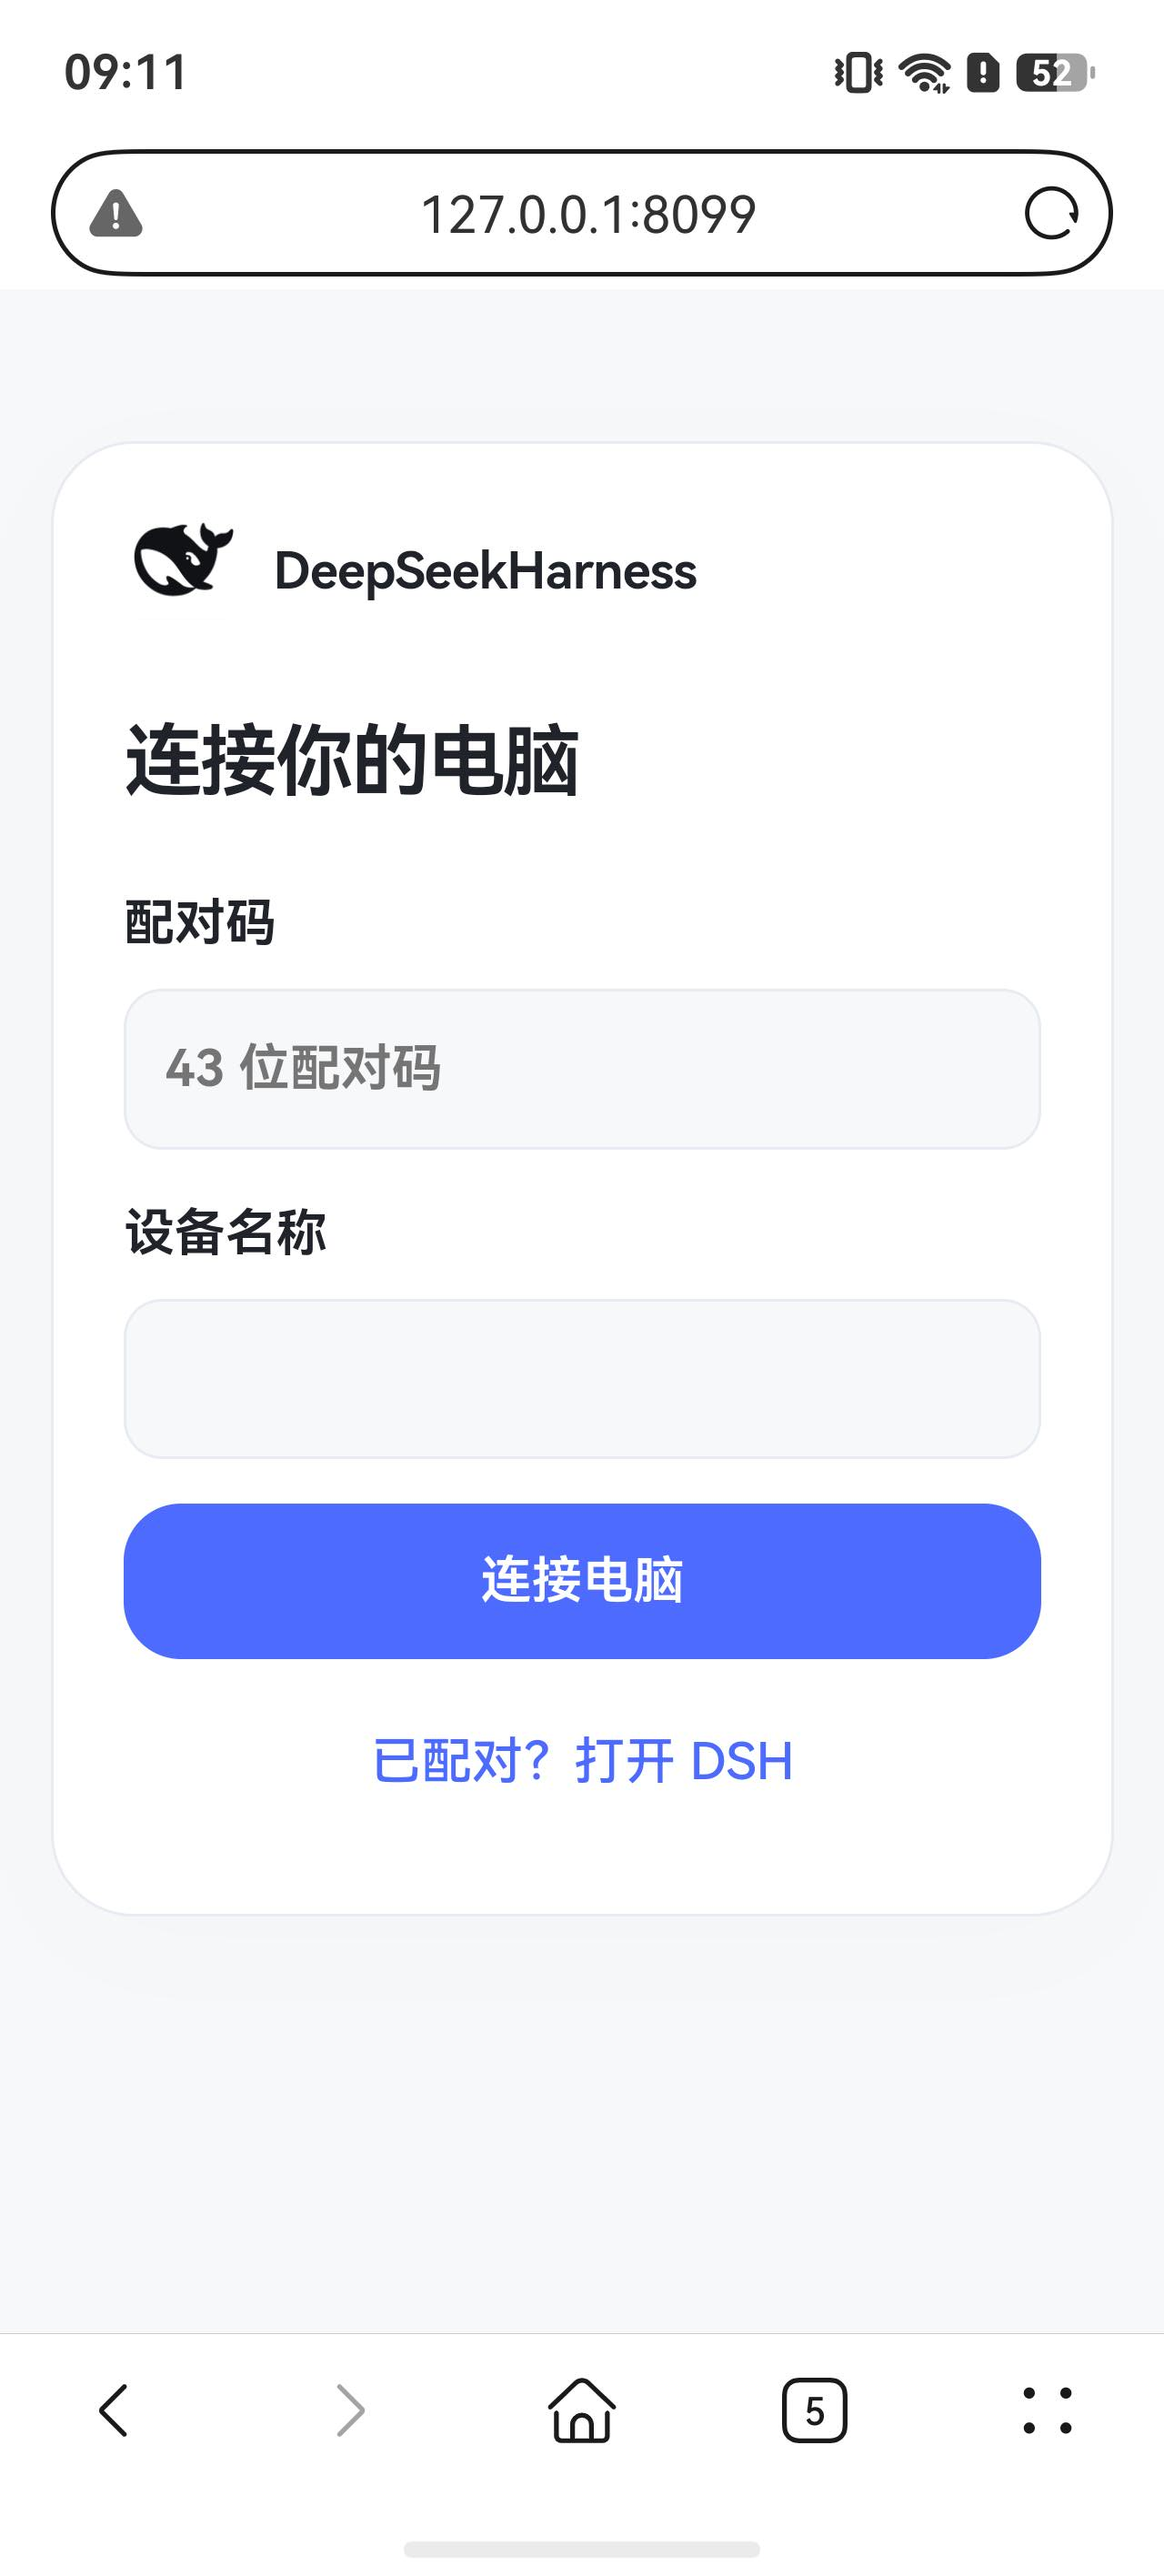
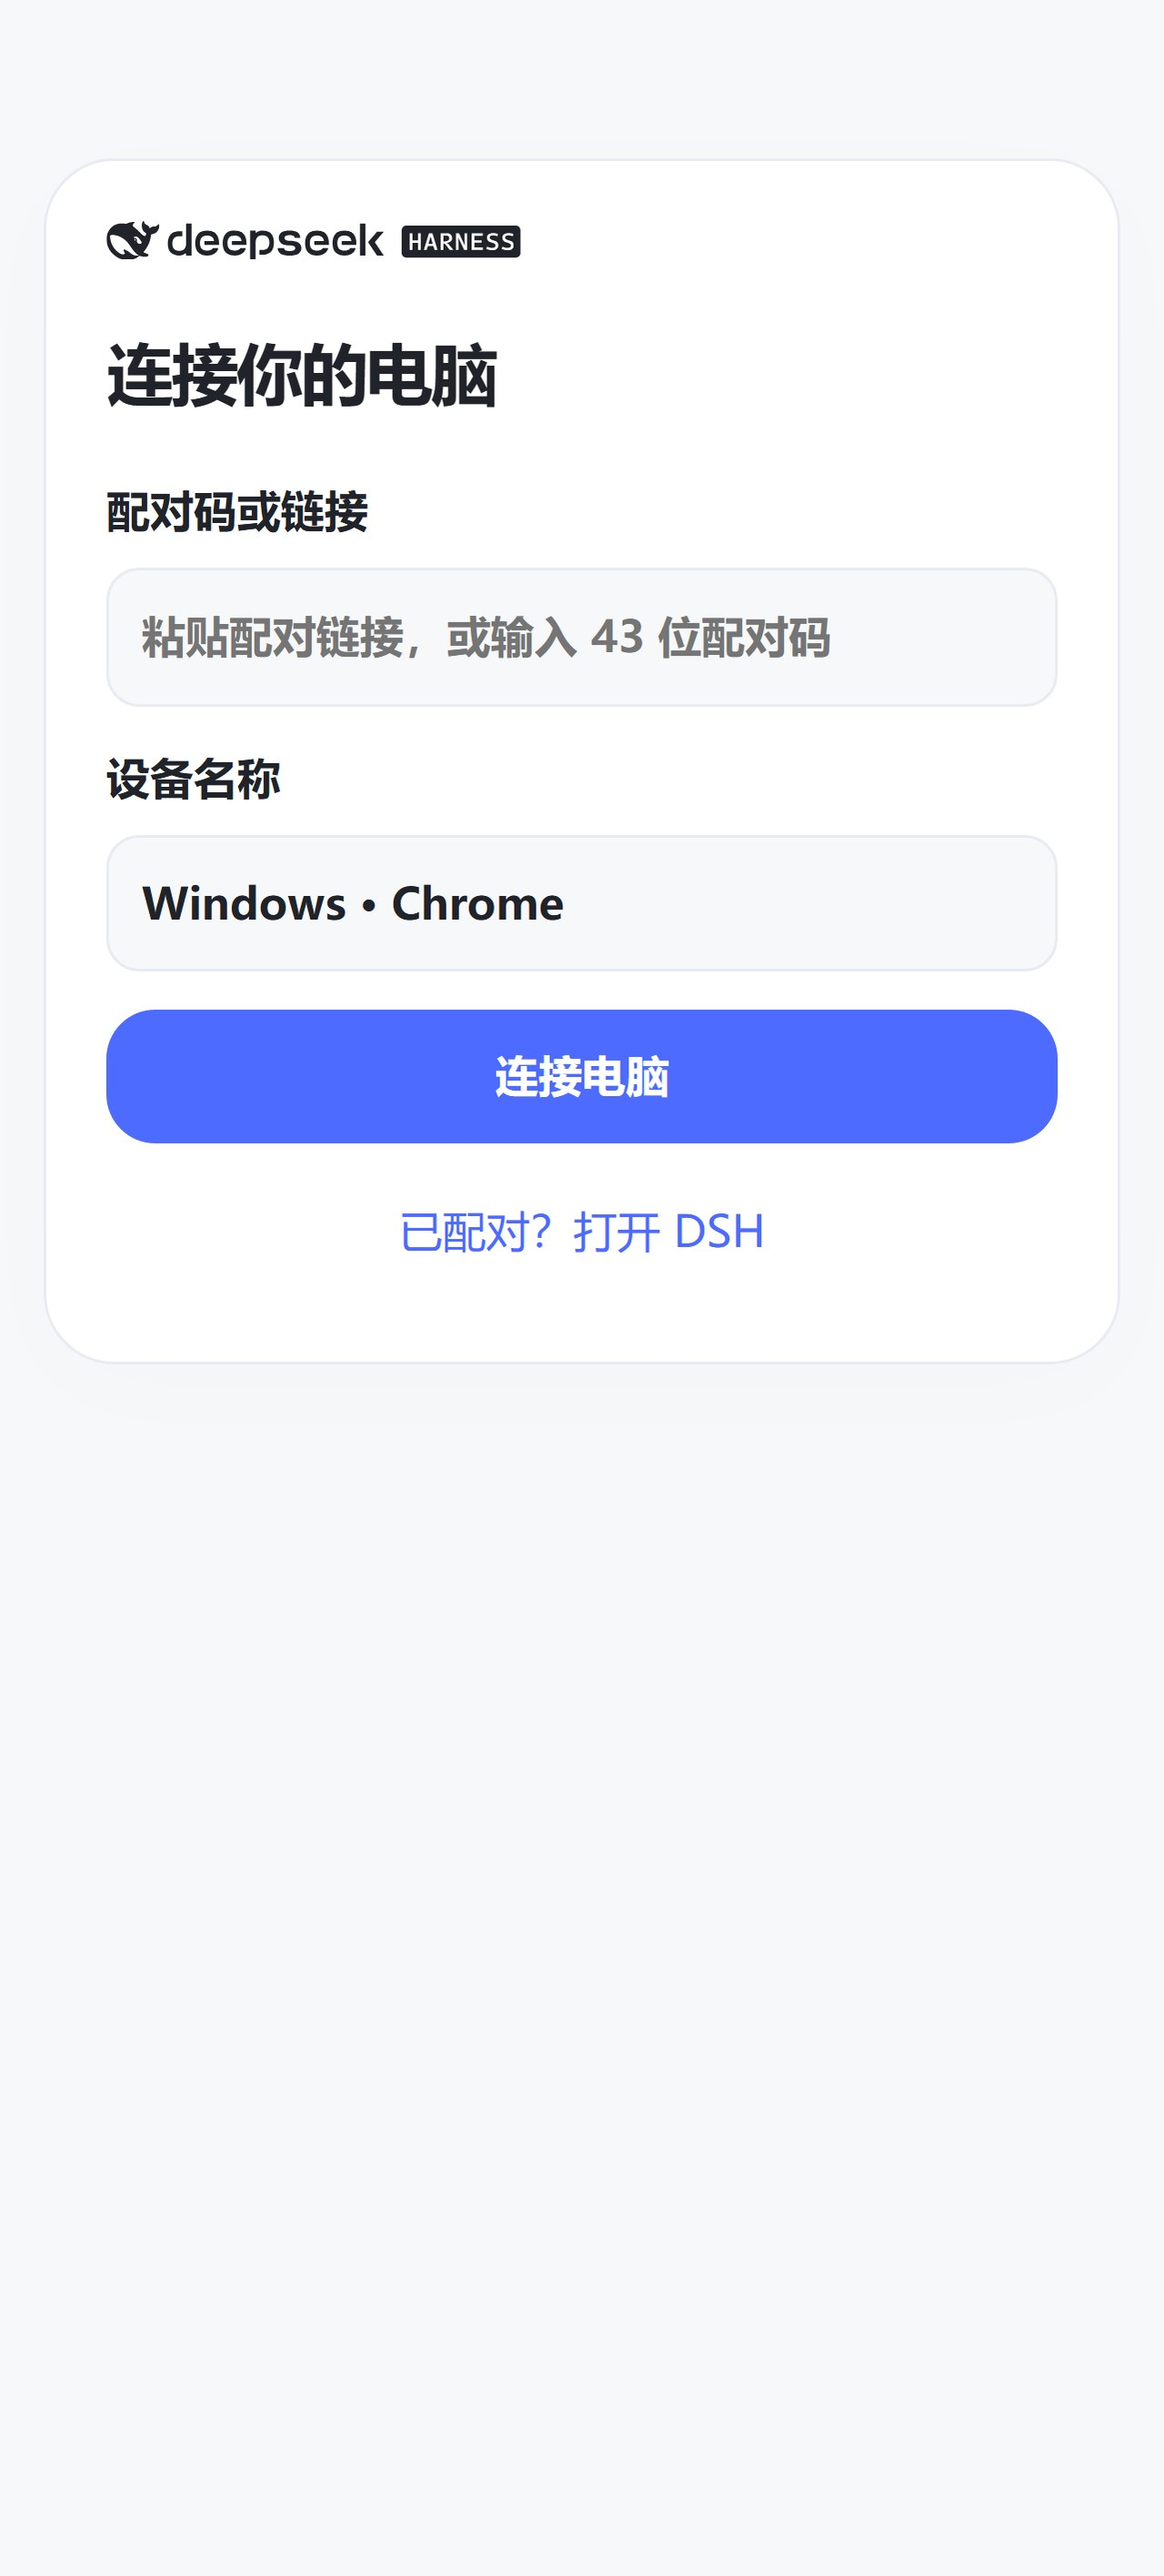
Accept pairing links, sync devices and use the native DeepSeek Harness lockup

diff --git a/desktop-plugin/client.js b/desktop-plugin/client.js
@@ -143,6 +143,7 @@ window.__ModuleLoader__.load({
           const [pairingView, setPairingView] = useState('');
           const [linkMode, setLinkMode] = useState('permanent');
           const active = useRef(false), pending = useRef(false), abort = useRef(null), timers = useRef(new Map());
+          const devicesRef = useRef([]);
           const setTemporary = (key, text, { error = false, duration = 2200, announce = true } = {}) => {
             if (!active.current) return;
             const cache = timers.current, previous = cache.get(key);
@@ -206,6 +207,30 @@ window.__ModuleLoader__.load({
             return () => clearTimeout(timer);
           }, [revoking]);
           useEffect(() => { if (editing && !devices.some(device => device.id === editing.id)) setEditing(null); }, [devices, editing]);
+          useEffect(() => { devicesRef.current = devices; }, [devices]);
+          // A phone pairs in another browser, so the list must catch up on its
+          // own instead of waiting for the panel to be reopened.
+          useEffect(() => {
+            if (!local()) return;
+            const timer = setInterval(async () => {
+              if (!active.current || document.hidden) return;
+              try {
+                const saved = await request('/devices', undefined, abort.current?.signal);
+                if (!active.current || !Array.isArray(saved.devices)) return;
+                const next = saved.devices, previous = devicesRef.current;
+                const changed = next.length !== previous.length || next.some((device, index) => {
+                  const candidate = previous[index];
+                  return !candidate || device.id !== candidate.id || device.label !== candidate.label
+                    || device.expiresAt !== candidate.expiresAt || device.lastSeenAt !== candidate.lastSeenAt;
+                });
+                if (!changed) return;
+                if (next.length > previous.length && previous.length > 0) setTemporary('devices', '新设备已配对', { duration: 3000 });
+                devicesRef.current = next.slice();
+                setDevices(next);
+              } catch { /* keep the last list; the manual refresh reports failures */ }
+            }, 5000);
+            return () => clearInterval(timer);
+          }, []);
           const run = async (key, action, onError) => {
             if (pending.current) return;
             pending.current = true; setBusy(key); setIssue('');
@@ -294,7 +319,7 @@ window.__ModuleLoader__.load({
                       h('button', { type: 'button', role: 'tab', 'aria-selected': linkMode === 'temporary', className: 'dfw-seg-item' + (linkMode === 'temporary' ? ' is-active' : ''),
                         onClick: () => { setLinkMode('temporary'); setPairing(null); setPairingView(''); } }, '临时链接')),
                     h('div', { className: 'dfw-panel-desc' }, linkMode === 'permanent'
-                      ? (publicOrigin ? '日常入口。新设备先扫码配对，之后存为书签直接打开。' : '日常入口。手机和电脑同一网络时可用，换网络后地址会变。')
+                      ? (publicOrigin ? '日常入口。第一次用手机请点「配对链接」，扫码或复制链接完成配对；之后再把上面的地址存为书签。' : '日常入口。第一次用手机请点「配对链接」完成配对，之后存为书签直接打开。')
                       : '临时分享用。生成后 10 分钟内有效，只能用一次。'),
                     h('div', { className: 'dfw-panel-body' },
                       linkMode === 'temporary' && pairingView === 'link' && pairing && h('div', { className: 'dfw-pairing-state', 'data-expired': remaining === 0 }, remaining
@@ -321,7 +346,7 @@ window.__ModuleLoader__.load({
                   h('div', { className: 'dfw-section-title' }, h('h4', { id: 'dfw-devices-title' }, '已配对设备'), h('span', { className: 'dfw-count' }, devices.length ? `${devices.length} 台` : '暂无')),
                   action('devices', '刷新', () => void run('devices', async signal => { await refresh(signal); if (active.current) setTemporary('devices', '已刷新', { duration: 1600 }); }, () => setTemporary('devices', '刷新失败，重试', { error: true, duration: 4000 })), { symbol: 'refresh', disabled: busy !== '' })),
                 h('div', { className: 'dfw-card' },
-                  !devices.length ? h('p', { className: 'dfw-empty' }, '暂无配对设备。生成配对链接后，新设备会显示在这里。')
+                  !devices.length ? h('p', { className: 'dfw-empty' }, '还没有配对设备。手机扫码或打开配对链接后，设备会自动出现在这里。')
                   : h('ul', { className: 'dfw-device-list' }, devices.map(device => h('li', { className: 'dfw-device', key: device.id },
                     h('div', { className: 'dfw-device-info' },
                       editing?.id === device.id

diff --git a/README.md b/README.md
@@ -3,7 +3,7 @@
 <p align="center">把电脑上的 DeepSeek Harness，带在身边。</p>
 
 <p align="center">
-  <a href="https://github.com/LUMIAO9527/DSH-Connect/releases/latest"><img src="https://img.shields.io/badge/release-1.1.0-4d6bfe" alt="release"></a>
+  <a href="https://github.com/LUMIAO9527/DSH-Connect/releases/latest"><img src="https://img.shields.io/badge/release-1.2.0-4d6bfe" alt="release"></a>
   <a href="LICENSE"><img src="https://img.shields.io/badge/license-Apache--2.0-2ea44f" alt="license"></a>
   <img src="https://img.shields.io/badge/platform-Windows%20%7C%20browser-0078D4" alt="platform">
 </p>
@@ -19,7 +19,7 @@
   <img src="docs/images/pair-mobile.jpg" width="220" alt="手机配对">
 </p>
 
-白底启动画面后直接进入工作区；配对一次，之后打开链接即可恢复。
+白底启动画面使用 DeepSeek Harness 原生横向标识（鲸鱼 + deepseek + HARNESS），一次淡入后直接进入工作区；配对一次，之后打开链接即可恢复。
 
 ## 打开方式
 
@@ -32,7 +32,7 @@
 | 永久链接 | 日常入口，存为书签或添加到主屏幕 | 长期 |
 | 临时链接 | 发给别人临时使用 | 10 分钟，只能使用一次 |
 
-永久链接里点「配对链接」生成一次性配对链接和二维码，新设备完成授权后即可长期使用。
+永久链接里点「配对链接」生成一次性配对链接和二维码，新设备完成授权后即可长期使用。手机打开配对链接会自动完成配对；也可以把链接粘贴到配对页的输入框，或手动输入 43 位配对码。
 
 ## 下载
 

diff --git a/docs/VALIDATION.md b/docs/VALIDATION.md
@@ -1,5 +1,12 @@
 # 验证记录
 
+## 1.2.0（2026-11-09）
+
+- 101 项测试通过（0 失败、0 跳过）；新增配对链接识别、官方标识、设备列表自动同步用例。
+- Chrome 真实渲染（390×844 移动视口）：粘贴完整配对链接后自动提交 43 位配对码并进入工作区；没有配对码的普通链接停留在配对页并提示；43 位配对码仍可正常配对。
+- 启动页与配对页在浅色、深色下实图检查；README 两张界面图按新界面重出。
+- 发布构建通过：源码检查、测试、打包回读（37 个 tgz 文件、72 个源码条目）与图标校验一致。
+
 ## 1.1.0（2026-11-07）
 
 - 配对页提交进度显示在按钮内，失败信息在按钮下方；96 项测试通过。
@@ -12,4 +19,4 @@
 
 ## 未验
 
-真机 HTTPS 入口、局域网扫码新配对、附件上传与下载、长期锁屏、切网与弱网恢复。
+真机 HTTPS 入口、局域网扫码新配对、附件上传与下载、长期锁屏、切网与弱网恢复。1.2.0 的手机真机重新配对、设备列表自动出现，以及官方标识在真机浏览器上的最终观感尚未实测。

diff --git a/CHANGELOG.md b/CHANGELOG.md
@@ -1,5 +1,12 @@
 # 更新记录
 
+## 1.2.0
+
+- 启动画面与配对页改用 DeepSeek Harness 官方横向标识（鲸鱼 + deepseek + HARNESS），白底和尺寸沿用原启动页；配对页同步使用该标识。
+- 手机配对页的输入框现在也接受完整配对链接：粘贴链接会自动取出其中的一次性配对码；普通链接会提示需要配对码，43 位配对码输入保持不变。
+- 设置页打开期间每 5 秒同步已配对设备；手机完成配对后设备会自动出现，并在刷新按钮上提示。首次配对需使用「配对链接」的说明已补进页面。
+- 配对状态目录必须是持久路径；若目录被外部清理，旧设备授权无法恢复，需要重新配对（详见 README「升级与数据」）。
+
 ## 1.1.0
 
 - 配对页点「连接电脑」后，进度直接显示在按钮上（「正在配对…」），不再单独占一行；失败原因仍显示在按钮下方。

diff --git a/docs/LIFECYCLE.md b/docs/LIFECYCLE.md
@@ -13,7 +13,7 @@
 
 ## 第一次使用
 
-电脑插件的设置页提供配对链接和二维码。局域网内手机扫码直连；跨网使用已接通的 HTTPS 入口。配对后浏览器记住这台电脑，之后用永久链接打开即可恢复。
+电脑插件的设置页提供配对链接和二维码。手机扫码、直接打开链接，或把链接粘贴到配对页输入框即可完成配对；也可以手动输入 43 位配对码。局域网内手机扫码直连；跨网使用已接通的 HTTPS 入口。配对后浏览器记住这台电脑，之后用永久链接打开即可恢复。
 
 同一台电脑可以配多个浏览器，各自保存授权。
 
